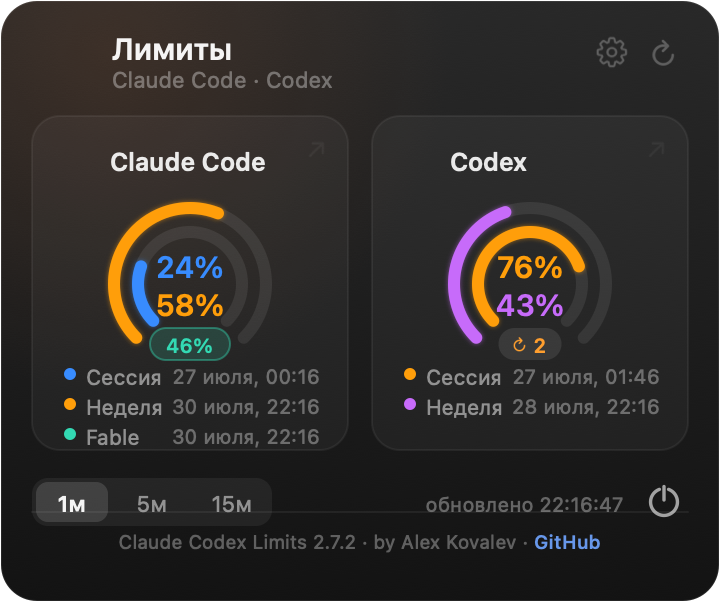
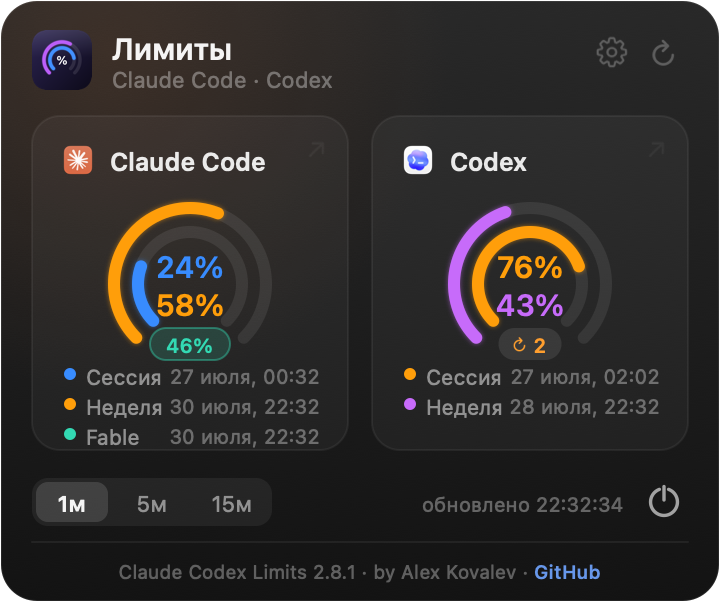
v2.8.1 — fix the footer divider striking through the credit line
The divider and credit text were positioned at hardcoded offsets from
the top of the panel (256 / 265), tuned when the panel was always 286pt
tall. v2.8 made the cards grow by a row for a per-model limit, which
pushed the interval row down into those fixed coordinates — so the
hairline crossed the pills and struck through the credit text.

Both are now derived from footTop, keeping their spacing from the
interval row at any card height. The values are unchanged for the
original 286pt layout, so nothing moves when no per-model limit exists.

diff --git a/Sources/LimitsMonitor.swift b/Sources/LimitsMonitor.swift
@@ -730,7 +730,7 @@ func panelMainHeight(_ claude: LimitData, _ codex: LimitData) -> CGFloat {
     PANEL_H + scopedRowExtra(claude, codex)
 }
 enum PanelMode { case main, settings, whatsnew, claudeFix }
-let APP_VERSION = "2.8"
+let APP_VERSION = "2.8.1"
 let APP_AUTHOR = "Alex Kovalev"
 let REPO_URL = "https://github.com/ArrivaRUS/claude-codex-limits"
 let CLAUDE_INSTALL_CMD = "curl -fsSL https://claude.ai/install.sh | bash"
@@ -1066,8 +1066,12 @@ func drawPanel(_ ctx: CGContext, size: CGSize, claude: LimitData, codex: LimitDa
         text(attr(tr("обновлено ", "updated ") + clockText(u), 10, .regular, textLo), x: W - pad - 32, topY: footTop + 7, align: 2)
     }
 
-    // credit line (authorship + version + clickable GitHub), like the reference app
-    let divY = H - 256
+    // credit line (authorship + version + clickable GitHub), like the reference app.
+    // Anchored BELOW the interval row rather than at a fixed offset from the top: the cards
+    // can grow (a per-model limit adds a row), and a hardcoded position would slide up into
+    // the pills and strike through them.
+    let divTopY = footTop + segH + 8
+    let divY = H - divTopY
     ctx.setStrokeColor(cg(gray(1, 0.06))); ctx.setLineWidth(1)
     ctx.beginPath(); ctx.move(to: CGPoint(x: pad, y: divY)); ctx.addLine(to: CGPoint(x: W - pad, y: divY)); ctx.strokePath()
     let creditPre = attr("Claude Codex Limits \(APP_VERSION) · by \(APP_AUTHOR) · ", 9.5, .regular, gray(1, 0.32))
@@ -1075,7 +1079,7 @@ func drawPanel(_ ctx: CGContext, size: CGSize, claude: LimitData, codex: LimitDa
     let preW = lineWidth(CTLineCreateWithAttributedString(creditPre))
     let linkW = lineWidth(CTLineCreateWithAttributedString(creditLink))
     let creditX = (W - preW - linkW) / 2
-    let creditTop: CGFloat = 265
+    let creditTop = divTopY + 9
     text(creditPre, x: creditX, topY: creditTop)
     text(creditLink, x: creditX + preW, topY: creditTop)
     hits.append(Hit(id: "open:\(REPO_URL)",

diff --git a/README.md b/README.md
@@ -3,7 +3,7 @@
 **English** · [Русский](README.ru.md)
 
 <p align="center">
-  <img src="docs/banner.png?v=280" alt="Claude Codex Limits — macOS menu bar usage limits" width="820">
+  <img src="docs/banner.png?v=281" alt="Claude Codex Limits — macOS menu bar usage limits" width="820">
 </p>
 
 A tiny macOS menu-bar app that shows how much of your **Claude Code** and **Codex**
@@ -13,9 +13,9 @@ Each row shows `session% / weekly%` (the rolling 5‑hour window and the 7‑day
 with the product's icon to its left. Click the tray icon for a detailed popover.
 
 <p align="center">
-  <img src="docs/menubar-dark.png?v=280" width="180" alt="Menu bar (dark)">
+  <img src="docs/menubar-dark.png?v=281" width="180" alt="Menu bar (dark)">
   &nbsp;&nbsp;
-  <img src="docs/panel-en.png?v=280" width="320" alt="Popover">
+  <img src="docs/panel-en.png?v=281" width="320" alt="Popover">
 </p>
 
 ## Features
@@ -38,16 +38,16 @@ with the product's icon to its left. Click the tray icon for a detailed popover.
 - **Launch at login** — a toggle right in Settings; no Dock icon, no dependencies beyond what macOS already ships.
 
 <p align="center">
-  <img src="docs/menubar-single.png?v=280" width="140" alt="Single product (menu bar)">
+  <img src="docs/menubar-single.png?v=281" width="140" alt="Single product (menu bar)">
   &nbsp;&nbsp;
-  <img src="docs/panel-single-en.png?v=280" width="300" alt="Single product (popover)">
+  <img src="docs/panel-single-en.png?v=281" width="300" alt="Single product (popover)">
 </p>
 <p align="center"><sub>With only one subscription set up, the tray and popover collapse to a single row / card.</sub></p>
 
-<p align="center"><img src="docs/settings-en.png?v=280" width="250" alt="Settings screen"></p>
+<p align="center"><img src="docs/settings-en.png?v=281" width="250" alt="Settings screen"></p>
 <p align="center"><sub>Settings (⚙): interface language · launch at login · a sound per event (resets &amp; limit‑reached) · built‑in updates.</sub></p>
 
-<p align="center"><img src="docs/whatsnew-en.png?v=280" width="320" alt="What's new screen"></p>
+<p align="center"><img src="docs/whatsnew-en.png?v=281" width="320" alt="What's new screen"></p>
 <p align="center"><sub>“What’s new”: release notes for every version you skipped, then update straight from there.</sub></p>
 
 ## How it works
@@ -87,7 +87,7 @@ you turn it on in Settings.
 
 ### 2. From the .dmg
 
-1. Download `ClaudeCodexLimits-2.8.dmg` from the [Releases](../../releases) page.
+1. Download `ClaudeCodexLimits-2.8.1.dmg` from the [Releases](../../releases) page.
 2. Open it and drag **Claude Codex Limits** into **Applications**.
 3. Launch it. The build isn't notarized, so on **macOS Sequoia / Tahoe** the first
    launch is blocked. Do this once:
@@ -123,7 +123,7 @@ Requirements: macOS 13+, the Xcode command‑line tools (`swiftc`). No packages 
 ## Build a release
 
 ```bash
-./scripts/make-dmg.sh     # → dist/ClaudeCodexLimits-2.8.dmg
+./scripts/make-dmg.sh     # → dist/ClaudeCodexLimits-2.8.1.dmg
 ```
 
 ## Project layout
